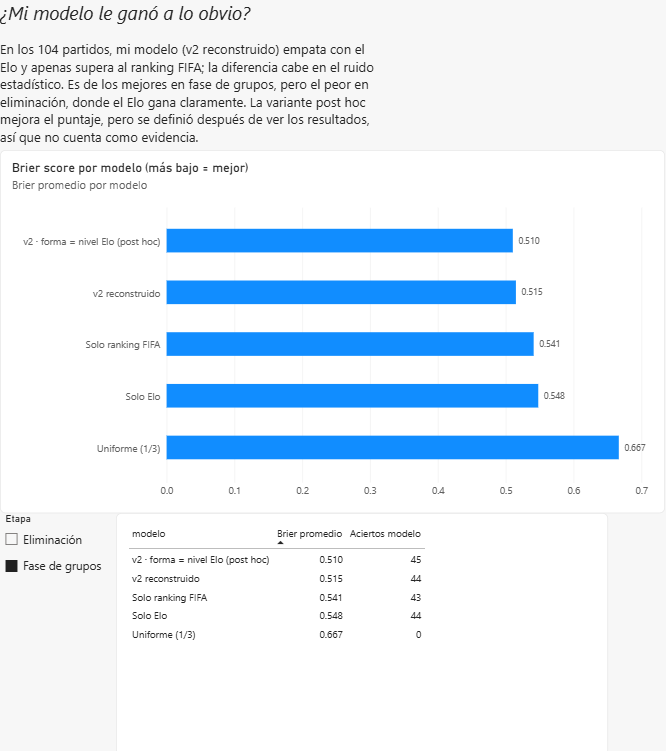
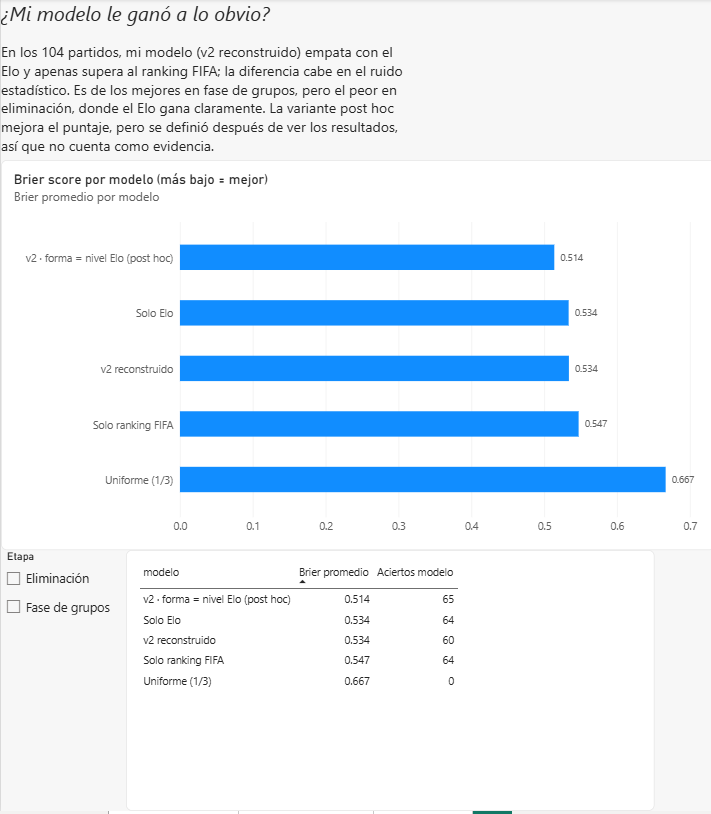
Captura de la página 2 con los 104 partidos (sin filtro)

diff --git a/README.md b/README.md
@@ -24,7 +24,7 @@ El tablero tiene 3 páginas, todas con filtros interactivos. Lo arma un modelo e
 | **Simulación** | ¿Quién era favorito antes del torneo, según cada modelo? |
 
 ![Mis predicciones](powerbi/capturas/pagina1_predicciones.png)
-![Modelo vs rivales (filtro: fase de grupos)](powerbi/capturas/pagina2_modelos.png)
+![Modelo vs rivales (los 104 partidos)](powerbi/capturas/pagina2_modelos.png)
 ![Simulación](powerbi/capturas/pagina3_simulacion.png)
 
 ## La historia
